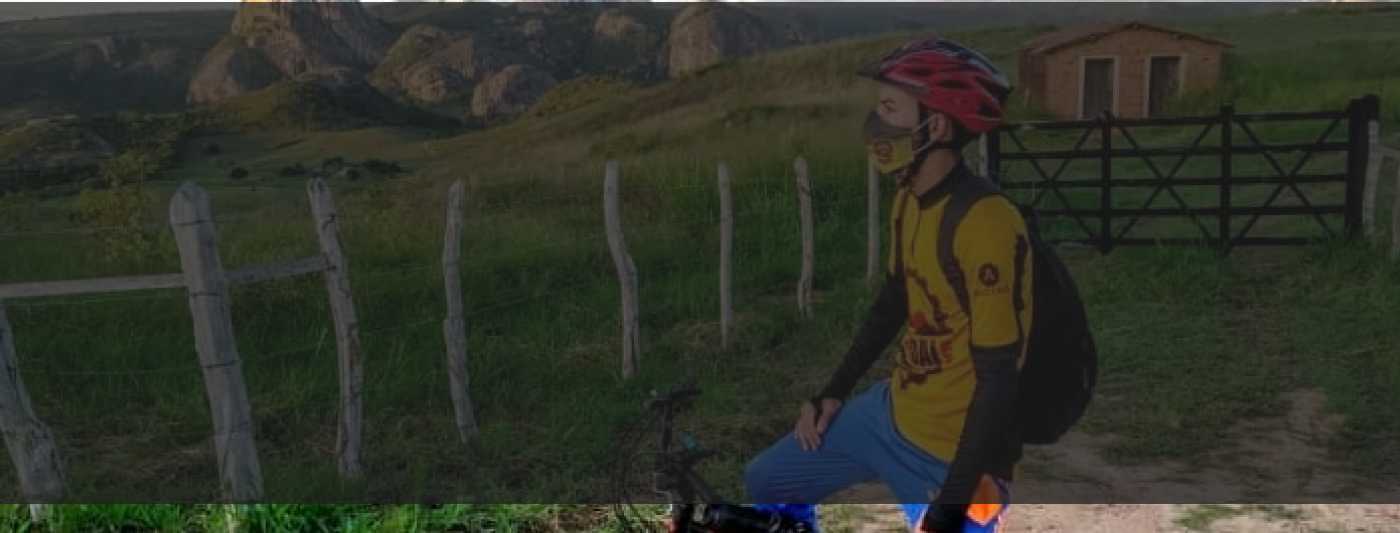
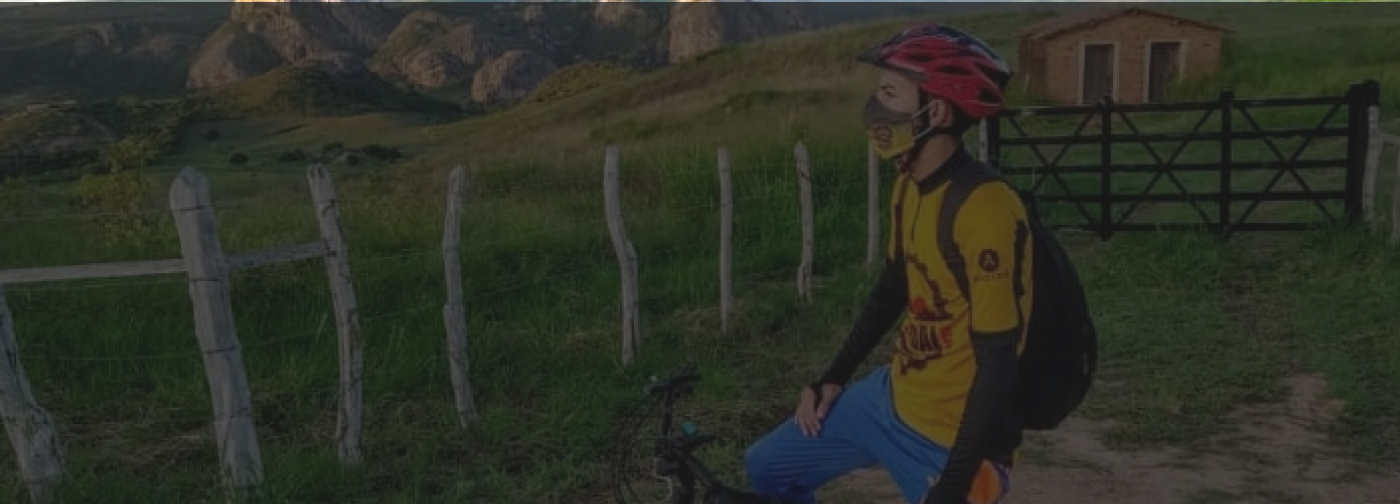
pagina sobre

diff --git a/sobre.html b/sobre.html
@@ -1,0 +1,77 @@
+<!DOCTYPE html>
+<html lang="en">
+<head>
+  <meta charset="UTF-8">
+  <meta name="viewport" content="width=device-width, initial-scale=1.0">
+  <link href="https://fonts.googleapis.com/css2?family=Lato:wght@300;700;900&display=swap" rel="stylesheet">
+  <link href="https://fonts.googleapis.com/css2?family=Poly:ital@0;1&display=swap" rel="stylesheet">
+  <link rel="stylesheet" href="./assets//css/style.css">
+  <meta name="viewport" content="width=device-width, initial-scale=1.0">
+  <script src="https://ajax.googleapis.com/ajax/libs/jquery/3.5.1/jquery.min.js"></script>
+  <title>Turma do Pedal - Sobre</title>
+</head>
+<body>
+  <header class="header">
+    <div class="conteudo-header container">
+      <div class="logo anime">
+        <a href="index.html">
+          <img src="./assets/imagens/logo.svg" alt="Turma do Pedal">
+        </a>
+      </div>
+      <nav class="menu">
+        <ul>
+          <li><a href="index.html" >Home</a></li>
+          <li><a href="sobre.html" class="active">Sobre</a></li>
+          <li><a href="">Galeria</a></li>
+          <li><a href="">Trilhas</a></li>
+          <li><a href="">Contato</a></li>
+        </ul>
+      </nav>
+    </div>
+  </header>
+
+  <div class="sobre-container">
+    <div class="container">
+        <p class="texto-desc-sobre anime">
+            O grupo Turma do Pedal surgiu no ano de 2018, a partir do enteresse de um grupo
+            de amigos, residentes na cidade de Serra de São Bento - RN. No início, o grupo 
+            era formado por apenas 3 pessoas, hoje já são em 7 membros fixos e normalmente
+            as trilhas contam com convidados.
+            Não há distinções no grupo. Qualquer pessoa com uma bicicleta (por mais simples 
+            que seja a "bike") pode se aventurar e desbravar toda a região serrana, que conta 
+            com várias paisagens e belezas naturais.
+            Existe pespectivas de crescimento do grupo, mas é prioridade não perder a essência.
+            Pedalando como forma de manter-se saudável, divertindo-se e se aventurando e sem
+            ter altos investimentos em bicicletas profissionais.
+        </p>
+    </div>
+  </div>
+  <footer class="footer ">
+    <div class="dados-footer container ">
+      <div class="contato-footer">
+        <h3>Contato</h3>
+        <p>(84)988432080</p>
+        <p>Serra de São Bento - RN</p>
+      </div>
+      <div class="sobre-footer">
+        <h3>Sobre nós</h3>
+        <p>Desbravando estradas da região</p>
+        <p>Desde 2018</p>
+      </div>
+      <div class="redes-sociais-footer">
+        <h3>Redes sociais</h3>
+        <div class="icones-footer">
+          <a href=""><img src="assets/imagens/insta.svg" alt="Insta"></a>
+          <a href=""><img src="assets/imagens/face.svg" alt="Face"></a>
+          <a href=""><img src="assets/imagens/youtube.svg" alt="Youtube"></a>
+        </div>
+      </div>
+    </div>
+    <div class="copy">
+      <p>Serra de São Bento - 2020</p>
+    </div>
+  </footer>
+
+  <script src="assets/js/script.js"></script>
+</body>
+</html>

diff --git a/index.html b/index.html
@@ -14,12 +14,14 @@
   <header class="header">
     <div class="conteudo-header container">
       <div class="logo anime">
-        <img src="./assets/imagens/logo.svg" alt="Turma do Pedal">
+        <a href="index.html">
+          <img src="./assets/imagens/logo.svg" alt="Turma do Pedal">
+        </a>
       </div>
       <nav class="menu">
         <ul>
           <li><a href="" class="active">Home</a></li>
-          <li><a href="">Sobre</a></li>
+          <li><a href="sobre.html">Sobre</a></li>
           <li><a href="">Galeria</a></li>
           <li><a href="">Trilhas</a></li>
           <li><a href="">Contato</a></li>
@@ -35,7 +37,7 @@
   </section>
 
   <div class="icone-capacete container">
-    <img src="assets/imagens/colecao-vintage-cycling-elements_1284-39320 (1) 1.svg" alt="capacete">
+    <img src="assets/imagens/capacete.svg" alt="capacete">
   </div>
 
   <section class="galeria container">
@@ -125,7 +127,7 @@
     <h1 class="titulo container">Contato</h1>
     <div class="contato-sociais">
       <div class="container conteudo-contato anime">
-        <form action="">
+        <form>
           <label for="email">E-mail</label>
           <input type="email" name="email" id="email">
           <label for="mensagem">Mensagem</label>
@@ -136,7 +138,7 @@
         <div class="sociais">
           <span>Redes sociais</span>
           <ul>
-            <li><a href=""><img src="assets/imagens/insta (1).svg" alt="Instagram"></a></li>
+            <li><a href=""><img src="assets/imagens/insta.svg" alt="Instagram"></a></li>
             <li><a href=""><img src="assets/imagens/face.svg" alt="Face"></a></li>
             <li><a href=""><img src="assets/imagens/youtube.svg" alt="Youtube"></a></li>
           </ul>
@@ -177,7 +179,7 @@
       <div class="redes-sociais-footer">
         <h3>Redes sociais</h3>
         <div class="icones-footer">
-          <a href=""><img src="assets/imagens/insta (1).svg" alt="Insta"></a>
+          <a href=""><img src="assets/imagens/insta.svg" alt="Insta"></a>
           <a href=""><img src="assets/imagens/face.svg" alt="Face"></a>
           <a href=""><img src="assets/imagens/youtube.svg" alt="Youtube"></a>
         </div>

diff --git a/assets/css/style.css b/assets/css/style.css
@@ -93,10 +93,9 @@ img{
   justify-content: space-between;
 }
 .logo{
-  width: 75px;
-  height: 75px;
-  position: relative;
-  top: 23px;
+  width: 50px;
+  height: 50px;
+  margin: auto 0;
 }
 .logo img{
   width: 100%;
@@ -452,6 +451,20 @@ form .btn{
   align-items: center;
 }
 
+/* SOBRE */
+
+.sobre-container{
+  margin-top: 60px;
+  max-width: 1400px;
+  background: url("../imagens/sobre-capa.jpg") no-repeat center;
+  background-size: cover;
+  background-color: #6d6a6a;
+  height: 500px;
+  padding-top: 100px;
+}
+.texto-desc-sobre{
+  width: 460px;
+}
 
 /* Animação */
 @keyframes fadeIn{
@@ -472,6 +485,7 @@ form .btn{
 /* Responsivo */
 /* TABLET */
 @media only screen and (min-width: 788px) and (max-width:979px){
+  /* Home */
   .icone-capacete{
     display: none;
   }
@@ -493,6 +507,7 @@ form .btn{
 }
 /* SMARTPHONE */
 @media only screen and (max-width:787px){
+  /* Home */
   .icone-capacete{
     display: none;
   }
@@ -625,10 +640,18 @@ form .btn{
     width: 50%;
     margin-top: 20px;
   }
-  .redes-sociais-footer{
-    
+  /* Sobre */
+  .sobre-container{
+    background: url("../imagens/sobre-capa-smart.jpg") no-repeat center;
+    background-size: cover;
+    display: flex;
+    justify-content: start;
+    align-items: center;
+    padding-top: 0;
   }
-  .copy{
-    
+  .sobre-container p{
+    width: 100%;
+    font-size: 16px;
+    line-height: 22px;
   }
 }
